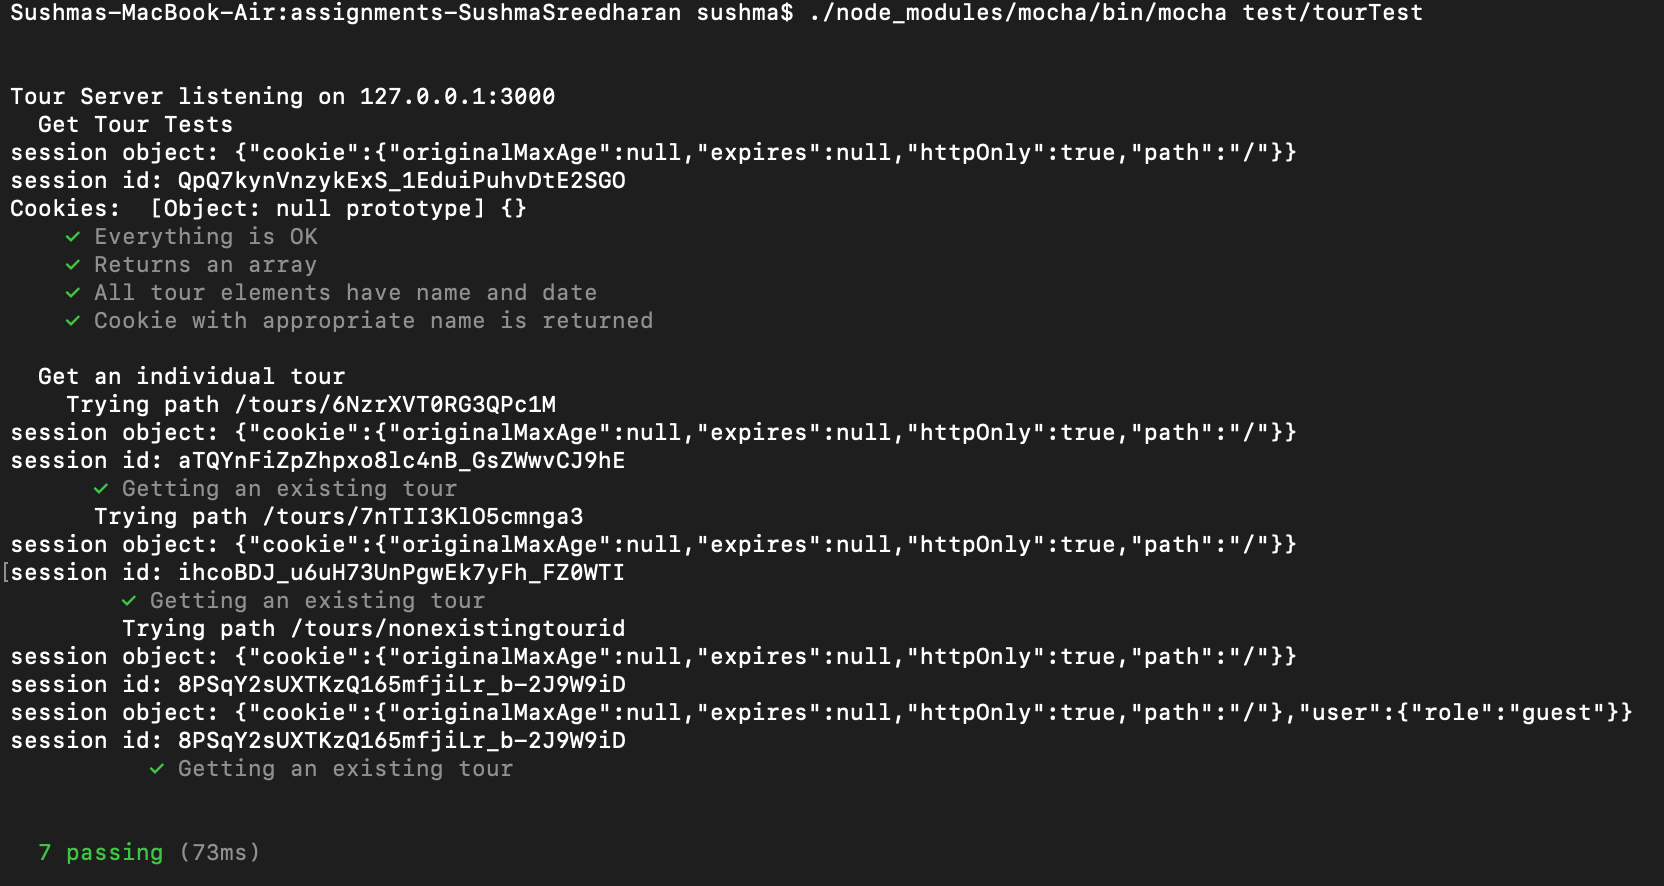
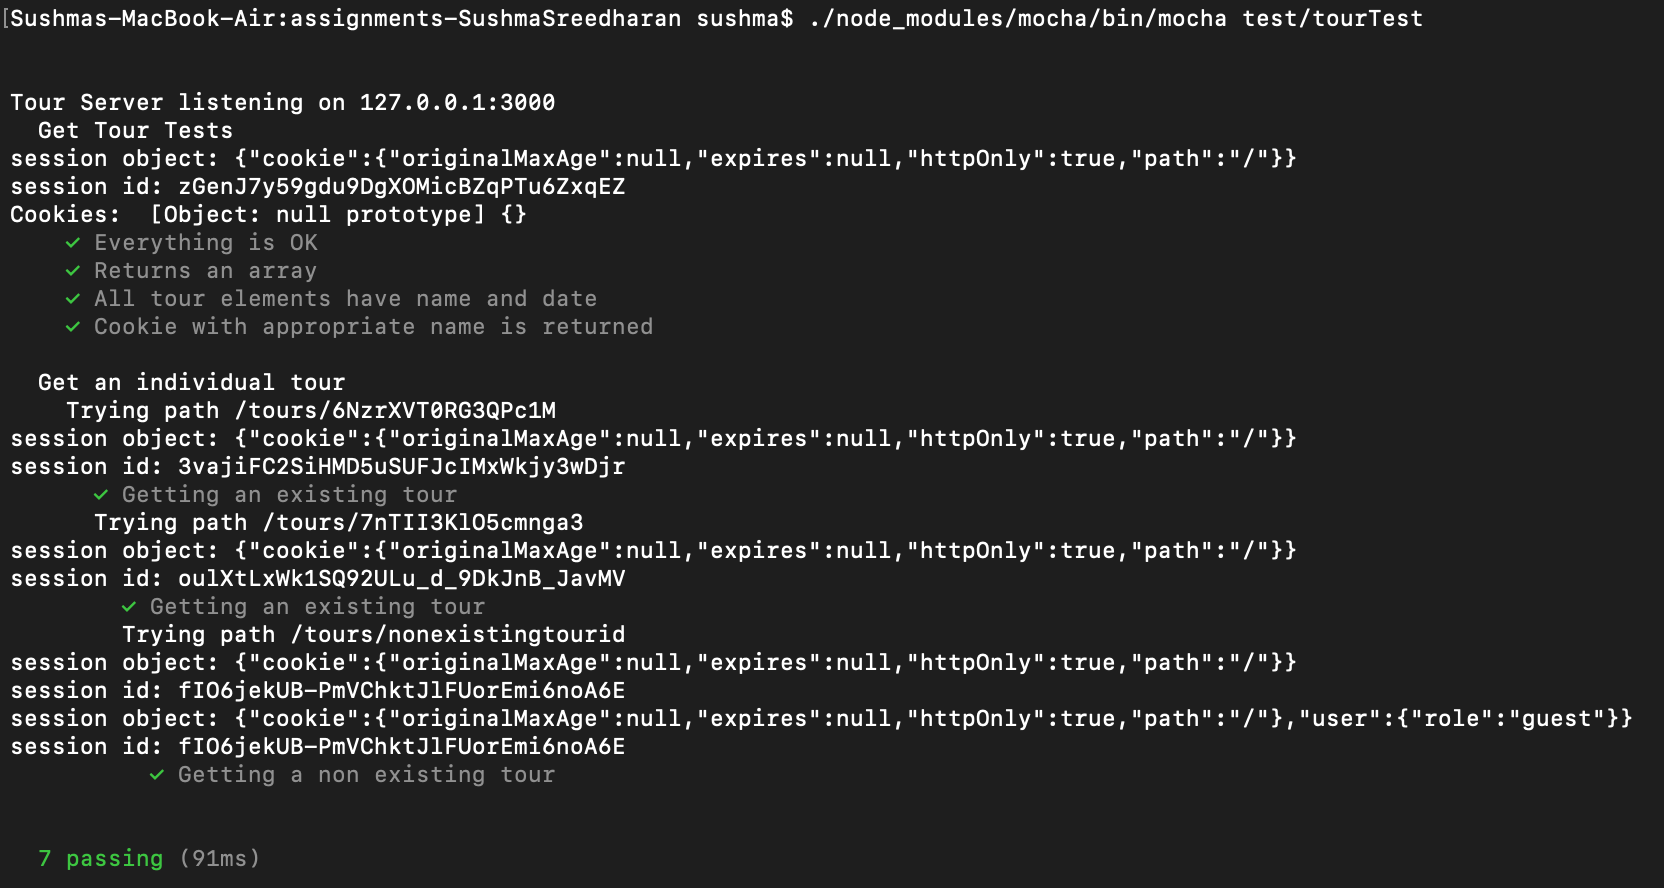
mocha

Changed region(s): [[0.0, 0.0914, 1.0, 0.8837], [0.0, 0.0, 0.875, 0.0305], [0.0312, 0.9447, 0.1562, 0.9752]]

diff --git a/test/tourTest.js b/test/tourTest.js
@@ -54,7 +54,7 @@ describe('Get an individual tour', function () {
 		before(async function(){
 			response = await request(app).get('/tours/nonexistingtourid');
 		})
-		it('Getting an existing tour ', async function(){
+		it('Getting a non existing tour ', async function(){
 			assert.equal(response.status, 404);
 		});
 	})

diff --git a/README.md b/README.md
@@ -162,7 +162,7 @@ describe('Get an individual tour', function () {
 		before(async function(){
 			response = await request(app).get('/tours/nonexistingtourid');
 		})
-		it('Getting an existing tour ', async function(){
+		it('Getting a non existing tour ', async function(){
 			assert.equal(response.status, 404);
 		});
 	})
